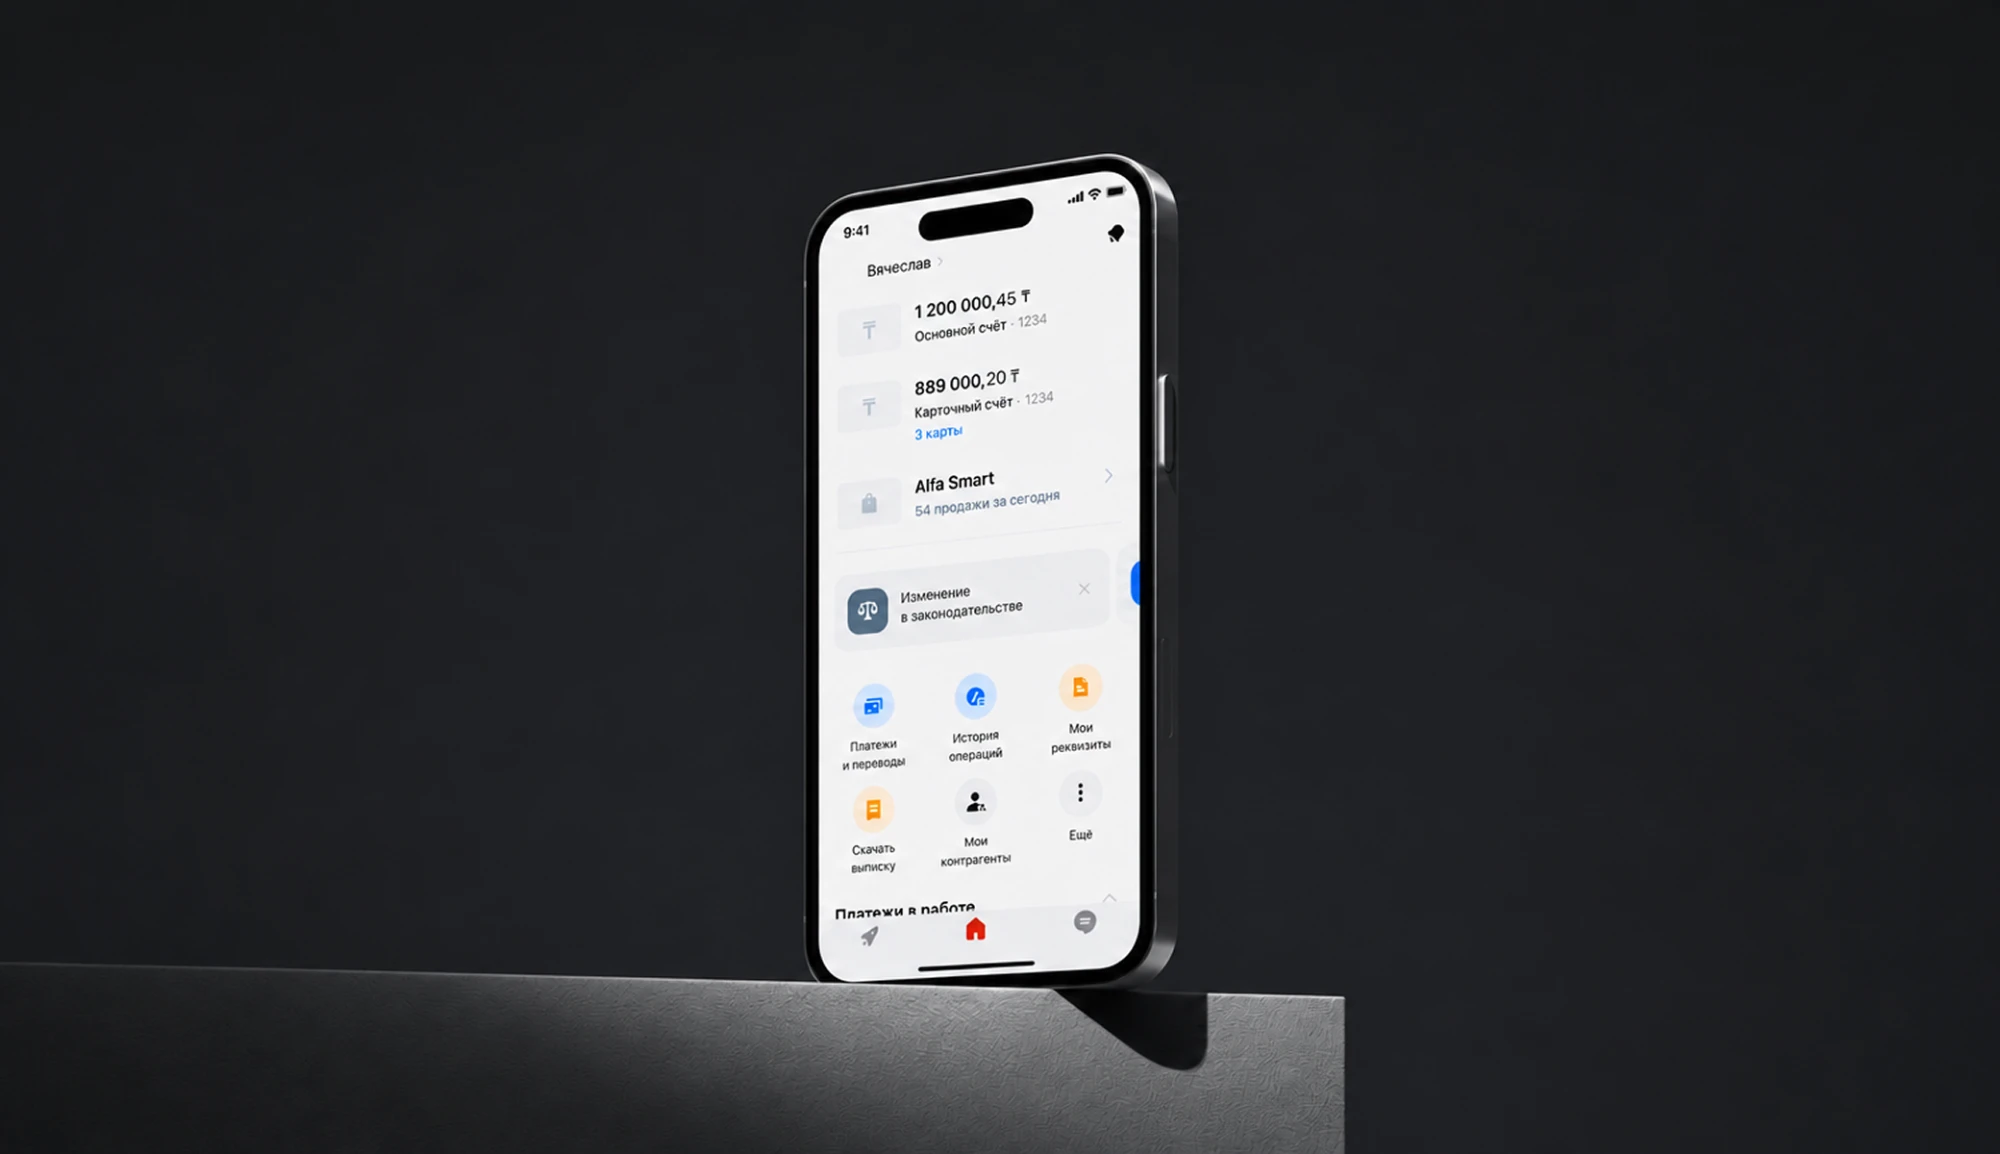
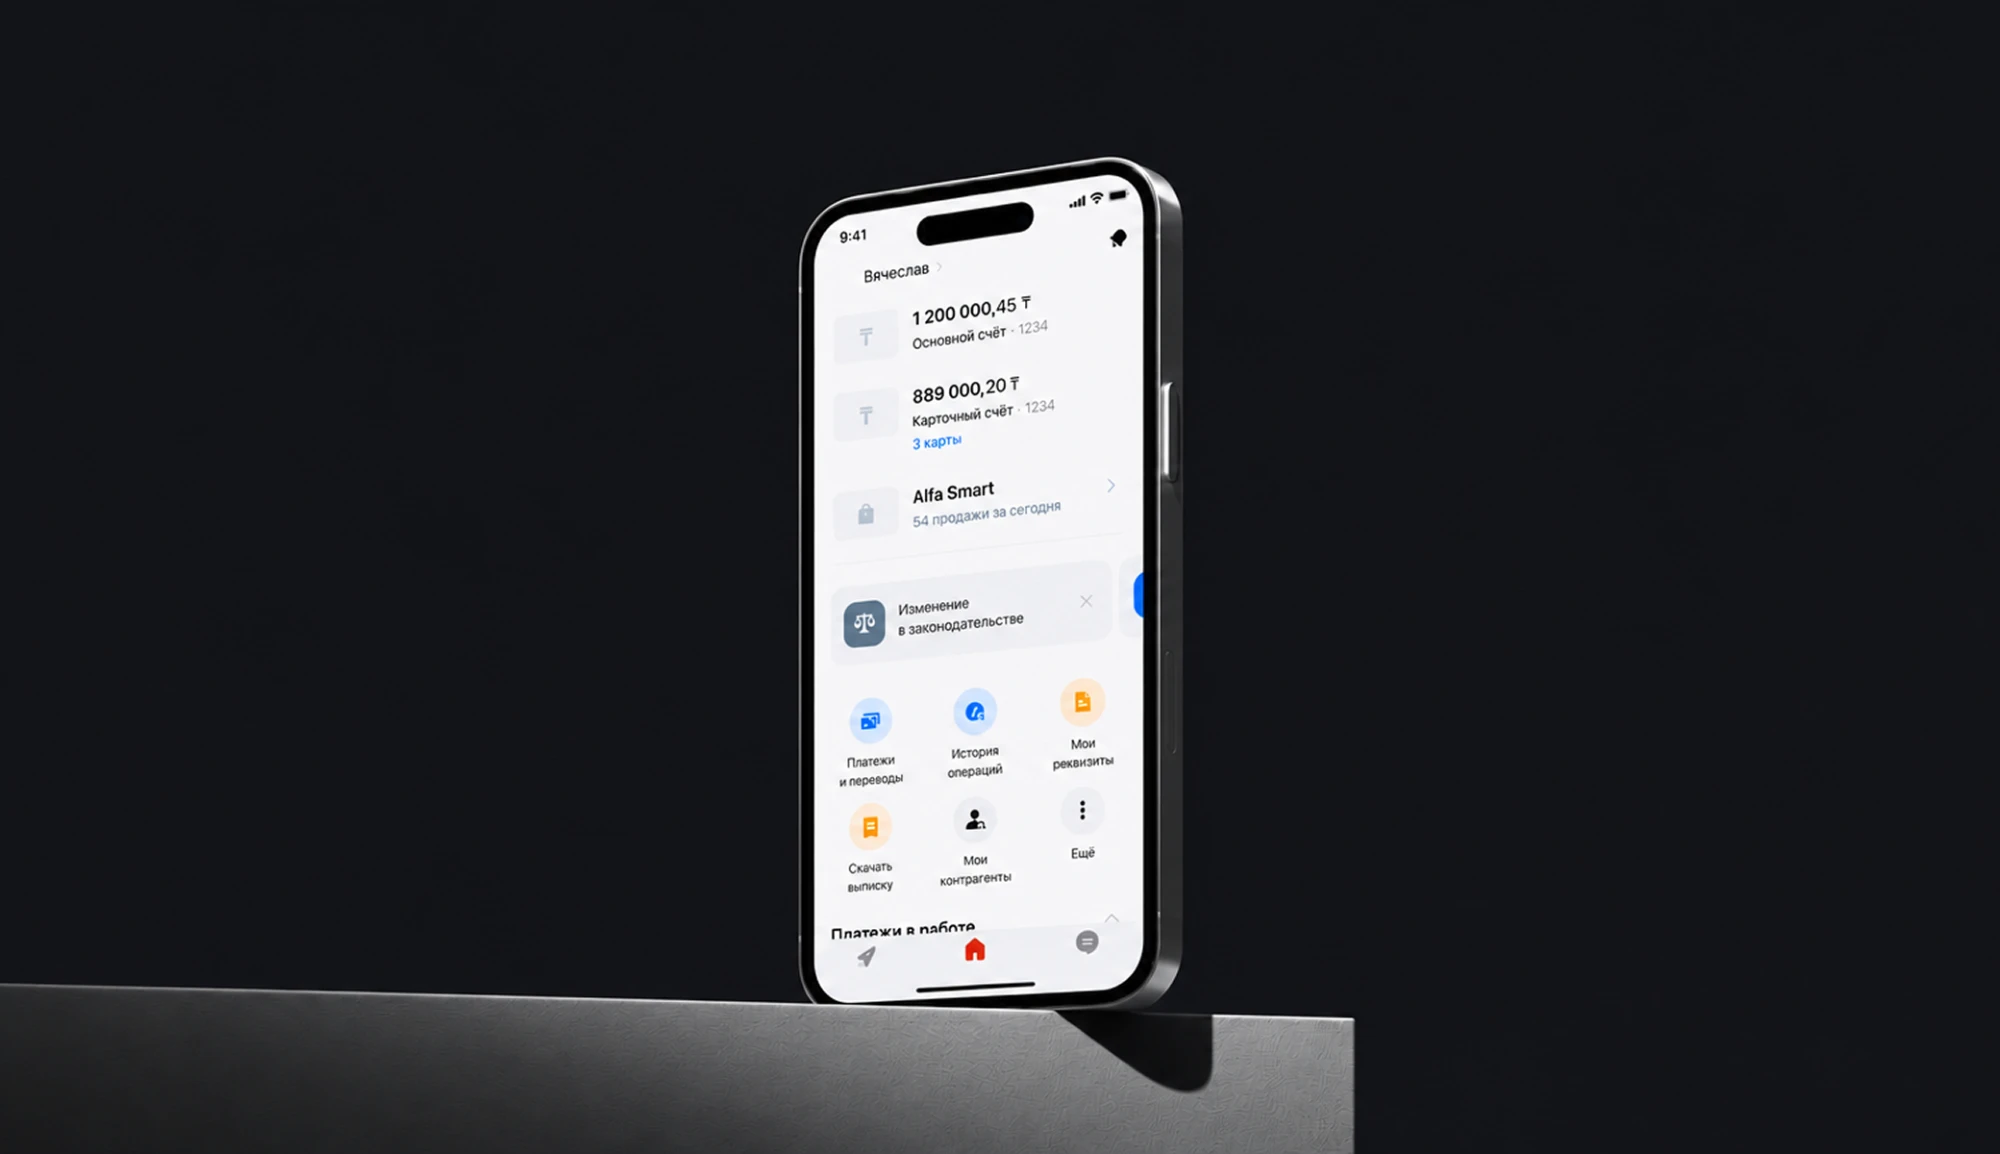
Тёмная обложка кейса Альфа-Банка: ещё один вариант

Changed region(s): [[0.0, 0.1248, 0.682, 1.0]]

diff --git a/index.html b/index.html
@@ -145,7 +145,7 @@
       <article class="case" data-reveal>
         <a draggable="false" class="case__cover" href="/abusiness" aria-label="Редизайн мобильного банка для бизнеса">
           <img draggable="false" class="cover-light" src="images/case-alfa-light.webp?v=2" alt="iPhone с главным экраном приложения Альфа-Банка для бизнеса" loading="lazy">
-          <img draggable="false" class="cover-dark" src="images/case-alfa-dark.webp?v=4" alt="iPhone с главным экраном приложения Альфа-Банка для бизнеса" loading="lazy">
+          <img draggable="false" class="cover-dark" src="images/case-alfa-dark.webp?v=5" alt="iPhone с главным экраном приложения Альфа-Банка для бизнеса" loading="lazy">
         </a>
         <h3 class="case__title">Редизайн мобильного банка для&nbsp;бизнеса</h3>
         <p class="case__text">Вместе с&nbsp;командой выяснил, почему предприниматели не&nbsp;справляются с&nbsp;базовыми задачами в&nbsp;приложении, и&nbsp;переделал ключевые сценарии и&nbsp;навигацию под их&nbsp;реальное поведение.</p>

diff --git a/abusiness.html b/abusiness.html
@@ -92,7 +92,7 @@
 
       <figure class="case-page__cover" data-reveal>
         <img class="cover-light" src="images/case-alfa-light.webp?v=2" alt="iPhone с главным экраном приложения Альфа-Банка для бизнеса">
-        <img class="cover-dark" src="images/case-alfa-dark.webp?v=4" alt="iPhone с главным экраном приложения Альфа-Банка для бизнеса">
+        <img class="cover-dark" src="images/case-alfa-dark.webp?v=5" alt="iPhone с главным экраном приложения Альфа-Банка для бизнеса">
       </figure>
 
       <section class="case-page__section" data-reveal>
